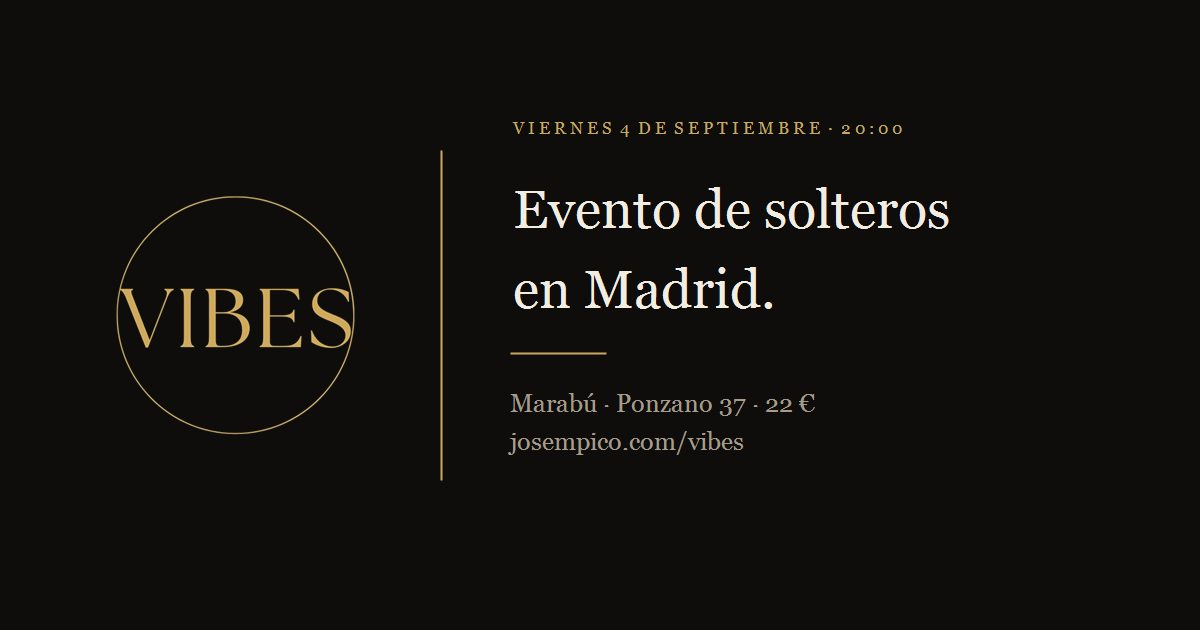
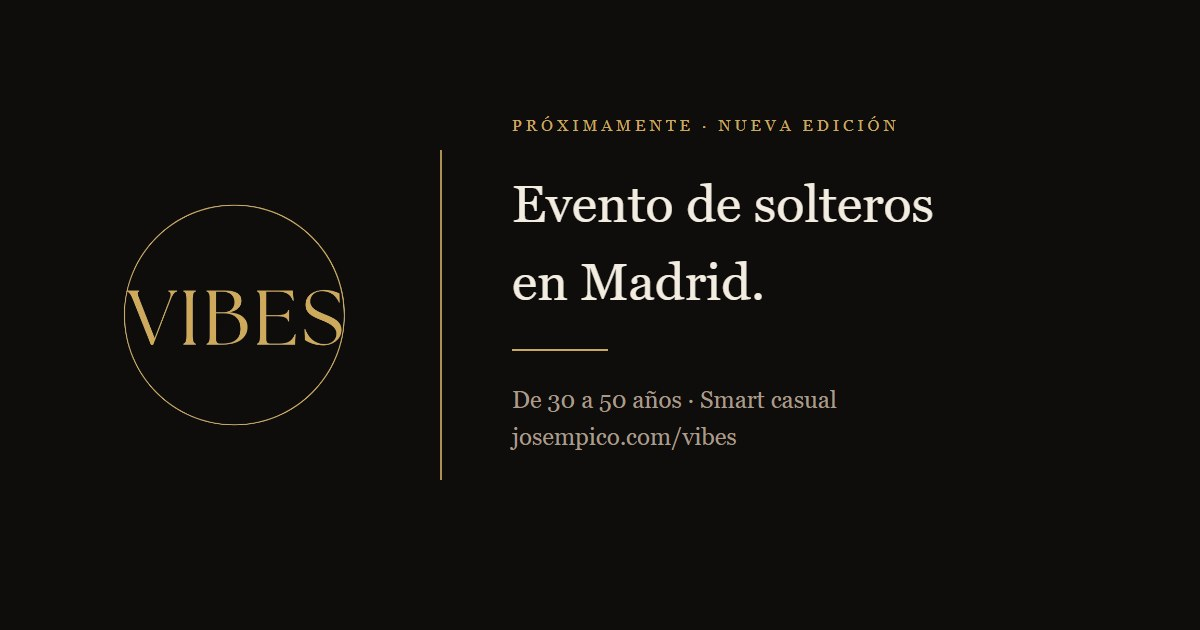
VIBES pasa a «próximamente»: se viene otra edición
La primera fue el 4/9/2026 y ya pasó. La página abre con el aviso de la
próxima (sin fecha: WhatsApp para que avisen e Instagram), deja los datos
genéricos y cuenta la primera edición aparte. Fuera los botones de Stripe
y el Event de los datos estructurados; condiciones sin fecha ni precio.
Tarjeta social rehecha sin la fecha y portada con «Próximamente».

diff --git a/vibes/index.html b/vibes/index.html
@@ -4,7 +4,7 @@
 <meta charset="utf-8">
 <meta name="viewport" content="width=device-width, initial-scale=1">
 <title>VIBES — Jose Pico</title>
-<meta name="description" content="Evento de solteros en Madrid. Viernes 4 de septiembre, 20:00, en Marabú. 22 € por persona.">
+<meta name="description" content="Evento de solteros en Madrid, de 30 a 50 años. Próximamente, nueva edición. La primera fue el 4 de septiembre en Marabú.">
 <link rel="canonical" href="https://josempico.com/vibes/">
 <meta name="theme-color" content="#0F0D0B">
 <meta name="color-scheme" content="dark">
@@ -13,9 +13,9 @@
 <meta property="og:locale" content="es_ES">
 <meta property="og:url" content="https://josempico.com/vibes/">
 <meta property="og:title" content="VIBES — evento de solteros en Madrid">
-<meta property="og:description" content="Evento de solteros en Madrid. Viernes 4 de septiembre, 20:00, en Marabú. 22 € por persona.">
-<meta property="og:image" content="https://josempico.com/assets/social/vibes.jpg">
-<meta property="og:image:alt" content="VIBES — evento de solteros en Madrid, viernes 4 de septiembre">
+<meta property="og:description" content="Evento de solteros en Madrid, de 30 a 50 años. Próximamente, nueva edición.">
+<meta property="og:image" content="https://josempico.com/assets/social/vibes.jpg?v=20260911">
+<meta property="og:image:alt" content="VIBES — evento de solteros en Madrid. Próximamente, nueva edición">
 <meta property="og:image:width" content="1200">
 <meta property="og:image:height" content="630">
 <meta name="twitter:card" content="summary_large_image">
@@ -25,99 +25,63 @@
 <script type="application/ld+json">
 {
   "@context": "https://schema.org",
-  "@graph": [
+  "@type": "FAQPage",
+  "mainEntity": [
     {
-      "@type": "Event",
-      "@id": "https://josempico.com/vibes/#evento",
-      "name": "VIBES — evento de solteros en Madrid",
-      "url": "https://josempico.com/vibes/",
-      "startDate": "2026-09-04T20:00:00+02:00",
-      "endDate": "2026-09-05T00:00:00+02:00",
-      "eventStatus": "https://schema.org/EventScheduled",
-      "eventAttendanceMode": "https://schema.org/OfflineEventAttendanceMode",
-      "image": "https://josempico.com/assets/parejas/cena.jpg",
-      "typicalAgeRange": "30-50",
-      "description": "Una noche para conocer gente en persona: recepción, dinámicas y juegos, y acceso a la discoteca al terminar. Incluye dos bebidas.",
-      "location": {
-        "@type": "Place",
-        "name": "Marabú",
-        "address": {
-          "@type": "PostalAddress",
-          "streetAddress": "Calle de Ponzano, 37",
-          "addressLocality": "Madrid",
-          "postalCode": "28003",
-          "addressRegion": "Madrid",
-          "addressCountry": "ES"
-        }
-      },
-      "organizer": {
-        "@type": "Person",
-        "name": "Jose Manuel Da Silva González",
-        "url": "https://josempico.com/",
-        "email": "thevibesspain@gmail.com"
-      },
-      "offers": {
-        "@type": "Offer",
-        "price": "22",
-        "priceCurrency": "EUR",
-        "availability": "https://schema.org/InStock",
-        "url": "https://josempico.com/vibes/",
-        "validFrom": "2026-08-01T00:00:00+02:00",
-        "description": "22 € por persona: 11 € al reservar y 11 € en la puerta."
+      "@type": "Question",
+      "name": "¿Cuándo es la próxima?",
+      "acceptedAnswer": {
+        "@type": "Answer",
+        "text": "Todavía no hay fecha. Se anuncia primero en @vibes.spain; si quieres que te avisemos, escríbenos por WhatsApp."
       }
     },
     {
-      "@type": "FAQPage",
-      "mainEntity": [
-        {
-          "@type": "Question",
-          "name": "¿Puedo ir sin acompañante?",
-          "acceptedAnswer": {
-            "@type": "Answer",
-            "text": "Sí. Lo ideal sigue siendo venir en pareja, porque es lo que mantiene la sala equilibrada, pero el grupo ya está formado y hay sitio para plazas individuales. Si no tienes a quién llevar, reservas tu plaza individual y vienes igual."
-          }
-        },
-        {
-          "@type": "Question",
-          "name": "Y si voy solo, ¿me vais a asignar a alguien?",
-          "acceptedAnswer": {
-            "@type": "Answer",
-            "text": "No. Aquí nadie te asigna a nadie ni te sienta delante de una persona concreta. La noche está montada para que hables con mucha gente distinta y decidas tú con quién sigues. Vengas solo o acompañado, conoces a los demás igual."
-          }
-        },
-        {
-          "@type": "Question",
-          "name": "¿Qué tipo de evento es?",
-          "acceptedAnswer": {
-            "@type": "Answer",
-            "text": "Una noche para conocer a otras personas, con dinámicas y juegos que te hacen moverte y hablar con gente distinta. No es una cita a ciegas ni un evento donde te quedas toda la noche con los que ya venías."
-          }
-        },
-        {
-          "@type": "Question",
-          "name": "¿Qué edades hay?",
-          "acceptedAnswer": {
-            "@type": "Answer",
-            "text": "De 30 a 50 años. Es el rango de todo el mundo en la sala, así que no vas a ser ni el mayor ni el más joven."
-          }
-        },
-        {
-          "@type": "Question",
-          "name": "¿Cómo hay que ir vestido?",
-          "acceptedAnswer": {
-            "@type": "Answer",
-            "text": "Smart casual o casual elegante. Vístete bien, siéntete bien, conecta mejor."
-          }
-        },
-        {
-          "@type": "Question",
-          "name": "¿Se puede recuperar el dinero?",
-          "acceptedAnswer": {
-            "@type": "Answer",
-            "text": "Las reservas no se devuelven: el aforo es cerrado y tu plaza deja fuera a otra persona. Lo que sí puedes hacer es ceder tu plaza —o las dos, si reservaste en pareja— a quien quieras: nos escribes con los nombres y listo, sin coste."
-          }
-        }
-      ]
+      "@type": "Question",
+      "name": "¿Puedo ir sin acompañante?",
+      "acceptedAnswer": {
+        "@type": "Answer",
+        "text": "Sí. Lo ideal es venir en pareja, porque es lo que mantiene la sala equilibrada, pero también se puede reservar plaza individual. Si no tienes a quién llevar, reservas la tuya y vienes igual."
+      }
+    },
+    {
+      "@type": "Question",
+      "name": "Y si voy solo, ¿me vais a asignar a alguien?",
+      "acceptedAnswer": {
+        "@type": "Answer",
+        "text": "No. Aquí nadie te asigna a nadie ni te sienta delante de una persona concreta. La noche está montada para que hables con mucha gente distinta y decidas tú con quién sigues. Vengas solo o acompañado, conoces a los demás igual."
+      }
+    },
+    {
+      "@type": "Question",
+      "name": "¿Qué tipo de evento es?",
+      "acceptedAnswer": {
+        "@type": "Answer",
+        "text": "Una noche para conocer a otras personas, con dinámicas y juegos que te hacen moverte y hablar con gente distinta. No es una cita a ciegas ni un evento donde te quedas toda la noche con los que ya venías."
+      }
+    },
+    {
+      "@type": "Question",
+      "name": "¿Qué edades hay?",
+      "acceptedAnswer": {
+        "@type": "Answer",
+        "text": "De 30 a 50 años. Es el rango de todo el mundo en la sala, así que no vas a ser ni el mayor ni el más joven."
+      }
+    },
+    {
+      "@type": "Question",
+      "name": "¿Cómo hay que ir vestido?",
+      "acceptedAnswer": {
+        "@type": "Answer",
+        "text": "Smart casual o casual elegante. Vístete bien, siéntete bien, conecta mejor."
+      }
+    },
+    {
+      "@type": "Question",
+      "name": "¿Se puede recuperar el dinero?",
+      "acceptedAnswer": {
+        "@type": "Answer",
+        "text": "Las reservas no se devuelven: el aforo es cerrado y tu plaza deja fuera a otra persona. Lo que sí puedes hacer es ceder tu plaza —o las dos, si reservaste en pareja— a quien quieras: nos escribes con los nombres y listo, sin coste."
+      }
     }
   ]
 }
@@ -148,59 +112,62 @@
   </header>
 
   <section class="estrecho">
-    <h2>La próxima</h2>
+    <div class="carta">
+      <p class="kicker">Próximamente</p>
+      <h2>Se viene otra VIBES</h2>
+      <p>La primera fue el 4 de septiembre y ya estamos preparando la siguiente. Fecha, sitio y precio se anuncian muy pronto.</p>
+      <p>Sale primero en <a href="https://instagram.com/vibes.spain">@vibes.spain</a>. Si quieres enterarte antes que nadie, escríbenos por WhatsApp y te avisamos en cuanto se abran las reservas.</p>
+      <div class="acciones" style="margin-bottom:0">
+        <a class="boton" href="https://wa.me/34621321861?text=Hola!%20Quiero%20que%20me%20avis%C3%A9is%20cuando%20haya%20fecha%20de%20la%20pr%C3%B3xima%20VIBES.">Avisadme de la próxima</a>
+        <a class="boton hueco" href="https://instagram.com/vibes.spain">Seguir a @vibes.spain</a>
+      </div>
+    </div>
+  </section>
+
+  <section class="estrecho">
+    <h2>Qué es VIBES</h2>
     <ul class="lista">
-      <li><span class="rotulo">Cuándo</span>Viernes 4 de septiembre de 2026, a las 20:00</li>
-      <li><span class="rotulo">Dónde</span>Marabú — C/ de Ponzano, 37 · Chamberí, 28003 Madrid</li>
-      <li><span class="rotulo">Cuánto</span>22 € por persona</li>
+      <li><span class="rotulo">Qué</span>Una noche para conocer gente en persona, con dinámicas y juegos</li>
+      <li><span class="rotulo">Dónde</span>Madrid</li>
       <li><span class="rotulo">Edades</span>De 30 a 50 años</li>
       <li><span class="rotulo">Cómo se viste</span>Smart casual</li>
+      <li><span class="rotulo">Cómo se viene</span>En pareja —una chica y un chico— o con plaza individual</li>
     </ul>
-    <p><a href="https://maps.google.com/?q=Calle+de+Ponzano+37+Madrid">Abrir en Google Maps</a></p>
   </section>
 
   <section class="estrecho">
     <h2>Cómo está montado</h2>
     <p>Cada chica viene con un chico, y cada chico con una chica. No es tu pareja ni es una cita: es tu amigo, tu prima, tu compañero de trabajo. Es lo que mantiene la sala equilibrada toda la noche y lo que evita que esto acabe siendo lo de siempre.</p>
-    <p><b>Venir en pareja sigue siendo la mejor forma de reservar.</b> Si tienes a quién llevar, reserva las dos plazas y ya está.</p>
-    <p><b>Y si no encuentras acompañante, puedes venir solo.</b> El grupo ya está formado y equilibrado, así que hay sitio para plazas individuales. Reservas la tuya y vienes: no tienes que convencer a nadie.</p>
+    <p><b>Venir en pareja es la mejor forma de reservar.</b> Si tienes a quién llevar, reservas las dos plazas y ya está.</p>
+    <p><b>Y si no encuentras acompañante, puedes venir solo.</b> Hay plazas individuales: reservas la tuya y vienes, sin tener que convencer a nadie.</p>
   </section>
 
   <section class="estrecho">
     <h2>Cómo va la noche</h2>
     <ul class="lista">
-      <li><span class="rotulo">20:00 – 21:00</span>Recepción y bienvenida. Llegáis, os ubicáis y empieza el primer contacto sin prisa.</li>
-      <li><span class="rotulo">21:00 – 00:00</span>El evento. Dinámicas, juegos, música y tiempo para conocer a otras personas.</li>
-      <li><span class="rotulo">Desde las 00:00</span>Discoteca, para quien quiera seguir. El acceso ya va en tu entrada.</li>
+      <li><span class="rotulo">Primero</span>Recepción y bienvenida. Llegáis, os ubicáis y empieza el primer contacto sin prisa.</li>
+      <li><span class="rotulo">Después</span>El evento. Dinámicas, juegos, música y tiempo para conocer a otras personas.</li>
+      <li><span class="rotulo">Al terminar</span>Discoteca, para quien quiera seguir.</li>
     </ul>
   </section>
 
   <section class="estrecho">
-    <h2>Qué incluyen los 22 €</h2>
+    <h2>La primera edición</h2>
     <ul class="lista">
-      <li><span class="rotulo">Incluido</span>Entrada al evento</li>
-      <li><span class="rotulo">Incluido</span>Dos bebidas</li>
-      <li><span class="rotulo">Incluido</span>Todas las dinámicas de la noche</li>
-      <li><span class="rotulo">Incluido</span>Acceso a la discoteca al terminar</li>
+      <li><span class="rotulo">Cuándo</span>Viernes 4 de septiembre de 2026, de 20:00 a 00:00</li>
+      <li><span class="rotulo">Dónde</span>Marabú — C/ de Ponzano, 37 · Chamberí, Madrid</li>
+      <li><span class="rotulo">Cuánto</span>22 € por persona, con entrada, dos bebidas, todas las dinámicas y acceso a la discoteca al terminar</li>
     </ul>
-    <p class="nota">Se paga en dos veces, vengas en pareja o solo: <b>11 € por persona al reservar</b> y <b>11 € por persona en la puerta</b> el día del evento. En pareja son 22 € ahora por las dos plazas y otros 22 € allí. Solo, 11 € ahora y 11 € allí.</p>
   </section>
 
   <section class="estrecho">
-    <h2>Reservar</h2>
-    <div class="acciones">
-      <a class="boton" href="https://buy.stripe.com/9B64gzgCCgJxdtx7Zc9sk01?client_reference_id=web-josempico">Reservar en pareja</a>
-      <a class="boton hueco" href="https://buy.stripe.com/4gM28r7223WLcpt5R49sk04?client_reference_id=web-individual">Reservar plaza individual</a>
-      <a class="boton hueco" href="https://wa.me/34621321861?text=Hola!%20Quiero%20ir%20a%20VIBES%20del%204%20de%20septiembre.">Preguntar por WhatsApp</a>
-    </div>
-    <p class="nota">En pareja son dos plazas: <b>22 € ahora</b>. Individual es una plaza: <b>11 € ahora</b>. Aforo limitado.</p>
-  </section>
+    <h2>Preguntas frecuentes</h2>
 
-  <section class="estrecho">
-    <h2>Antes de reservar</h2>
+    <h3>¿Cuándo es la próxima?</h3>
+    <p>Todavía no hay fecha. Se anuncia primero en <a href="https://instagram.com/vibes.spain">@vibes.spain</a>; si quieres que te avisemos, escríbenos por WhatsApp.</p>
 
     <h3>¿Puedo ir sin acompañante?</h3>
-    <p>Sí. Lo ideal sigue siendo venir en pareja, porque es lo que mantiene la sala equilibrada, pero el grupo ya está formado y hay sitio para plazas individuales. Si no tienes a quién llevar, reservas tu plaza individual y vienes igual.</p>
+    <p>Sí. Lo ideal es venir en pareja, porque es lo que mantiene la sala equilibrada, pero también se puede reservar plaza individual. Si no tienes a quién llevar, reservas la tuya y vienes igual.</p>
 
     <h3>Y si voy solo, ¿me vais a asignar a alguien?</h3>
     <p>No. Aquí nadie te asigna a nadie ni te sienta delante de una persona concreta. La noche está montada para que hables con mucha gente distinta y decidas tú con quién sigues. Vengas solo o acompañado, conoces a los demás igual.</p>
@@ -221,8 +188,8 @@
   <section class="estrecho">
     <h2>Condiciones de la reserva</h2>
     <p><b>Organizador.</b> Jose Manuel Da Silva González. Contacto: thevibesspain@gmail.com y por mensaje directo en @vibes.spain o @josempico.</p>
-    <p><b>Qué estás reservando.</b> Una o dos plazas para VIBES, según la modalidad que elijas, el viernes 4 de septiembre de 2026 a las 20:00, en Marabú, C/ de Ponzano 37, 28003 Madrid.</p>
-    <p><b>Precio y forma de pago.</b> 22 € por persona. Al reservar se abona la mitad (11 € por plaza: 22 € en la reserva en pareja, 11 € en la individual) y el resto se paga en la puerta el día del evento. El precio incluye entrada, dos bebidas por persona y acceso a la discoteca al terminar. No incluye ninguna otra consumición.</p>
+    <p><b>Qué estás reservando.</b> Una o dos plazas para una edición de VIBES, según la modalidad que elijas, en la fecha, la hora y el local que se anuncian en esta página al abrir las reservas.</p>
+    <p><b>Precio y forma de pago.</b> Se indican en esta página al abrir las reservas de cada edición, junto con lo que incluye el precio.</p>
     <p><b>Condiciones de acceso.</b> Puedes reservar en pareja, una chica y un chico, o una plaza individual. La edad de acceso es de 30 a 50 años. Se aplican el derecho de admisión y las normas del local.</p>
     <p><b>Devoluciones.</b> Las reservas no son reembolsables. Al tratarse de un servicio de ocio con fecha determinada, no resulta de aplicación el derecho de desistimiento, conforme al artículo 103.l del Real Decreto Legislativo 1/2007 (TRLGDCU).</p>
     <p><b>Cesión de plazas.</b> Puedes ceder tu plaza, o las dos si reservaste en pareja, a otras personas que cumplan las condiciones de acceso, avisando por mensaje directo antes del evento. No tiene coste.</p>
@@ -235,7 +202,7 @@
     <p><b>Qué datos recogemos.</b> Nombre, correo electrónico, teléfono, tu usuario de Instagram, si acudes como chica o como chico y si ya tienes acompañante. Los datos de tu tarjeta no los vemos ni los almacenamos en ningún momento: los trata directamente la pasarela de pago.</p>
     <p><b>Para qué los usamos.</b> Únicamente para gestionar tu reserva, mantener el equilibrio de la sala y el aforo, controlar el acceso el día del evento y escribirte sobre este evento. No te mandamos publicidad de terceros ni cedemos tus datos con fines comerciales.</p>
     <p><b>Base legal.</b> La ejecución del contrato de reserva que solicitas, conforme al artículo 6.1.b del Reglamento (UE) 2016/679.</p>
-    <p><b>Quién más los trata.</b> Stripe Payments Europe, Ltd. procesa el cobro y guarda los datos de pago. Marabú recibe únicamente la lista de nombres necesaria para el control de acceso.</p>
+    <p><b>Quién más los trata.</b> Stripe Payments Europe, Ltd. procesa el cobro y guarda los datos de pago. El local del evento recibe únicamente la lista de nombres necesaria para el control de acceso.</p>
     <p><b>Cuánto los conservamos.</b> Hasta seis meses después del evento, salvo los datos de facturación, que se conservan durante el plazo legalmente exigido.</p>
     <p><b>Tus derechos.</b> Puedes solicitar el acceso, la rectificación, la supresión, la limitación, la portabilidad o la oposición al tratamiento escribiendo a thevibesspain@gmail.com. También puedes reclamar ante la Agencia Española de Protección de Datos (www.aepd.es).</p>
   </section>

diff --git a/index.html b/index.html
@@ -146,7 +146,7 @@
       <h2>VIBES</h2>
       <p>Conocer gente en persona, en una sala, sin deslizar a nadie. La forma más rápida de saber si hay algo antes de invertir tres semanas de chat.</p>
       <p class="apagado">Evento presencial en Madrid.</p>
-      <p class="pie">Ver la próxima fecha →</p>
+      <p class="pie">Próximamente, nueva edición →</p>
     </a>
 
   </div>
